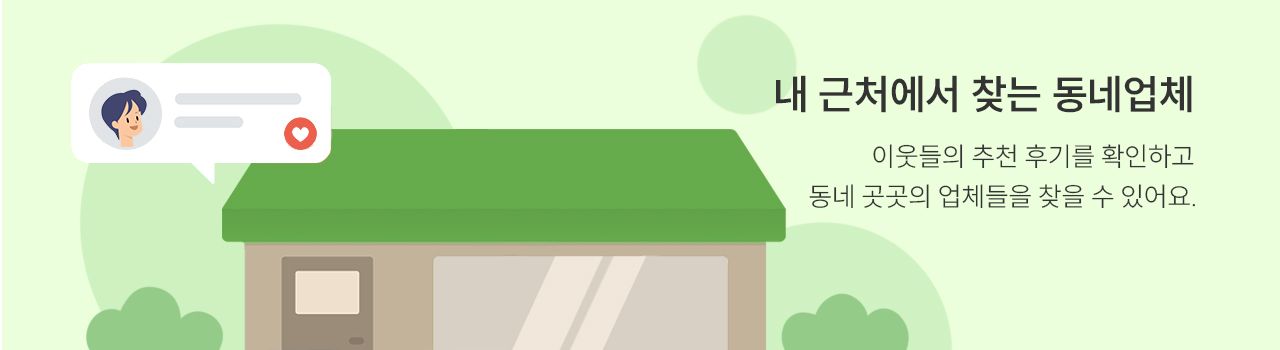
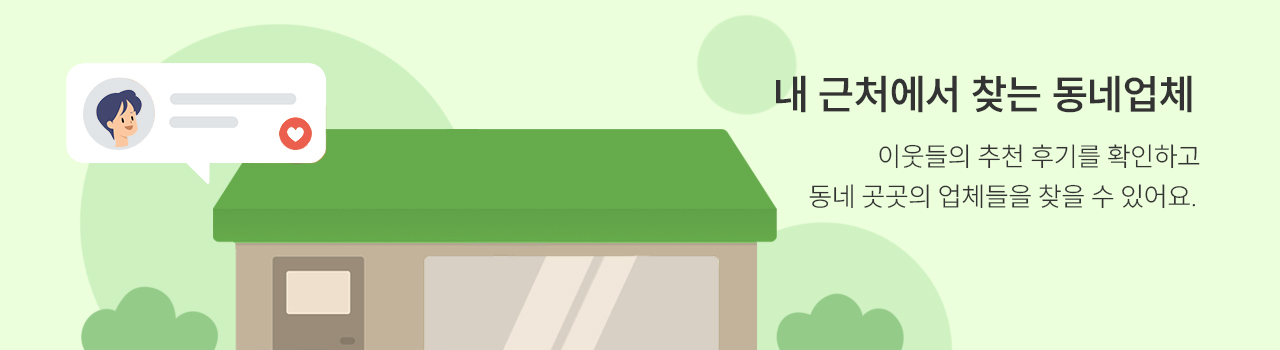
1225서연

diff --git a/finalProject/src/main/webapp/resources/css/index.css b/finalProject/src/main/webapp/resources/css/index.css
@@ -24,10 +24,11 @@
 	margin-top: 100px;
     width: 100%;
     height: 350px;
-    background-color: greenyellow;
+    background-color: #fffcdb;
+    text-align: center;
 }
 .secondBanner img{
-    width: 100%;
+    width: 1280px;
     height: 100%;
 }
 
@@ -281,16 +282,15 @@
 /* 앱스토어 배너 */
 .appStoreLine{
     width: 100%;
-    height: 500px;
-    background-color: green;
+    height: 400px;
+    background-color: #d5efd4;
     font-family: 'suit';
     display: flex;
     justify-content: center;
 }
 .appStoreInner{
-    padding-top: 60px;
-    width: 900px;
-    background-image: url(../image/avocartLogo.png);
+    width: 1280px;
+    background-image: url(../image/앱배너.jpg);
     background-repeat: no-repeat;
     background-position: right;
     background-size: contain;
@@ -303,11 +303,19 @@
     font-size: 20px;
     margin-bottom: 50px;
 }
+.appBtns{
+    margin: 275px 165px;
+}
+.appBtns a{
+    text-decoration: none;
+}
 .appStoreInner button{
     border: none;
     border-radius: 5px;
     padding: 10px 20px;
     margin-right: 10px;
+    background-color: #bee7bd;
+    color: #2b4d31;
 }
 
 
@@ -335,8 +343,20 @@
     margin-top: 5px;
 }
 #sofa{
-    height: 40%;
+    height: 45%;
 }
 #sunglasses{
-    height: 35%;
+    height: 30%;
+}
+#mac{
+    height: 60%;
+}
+#macc{
+    height: 45%;
+}
+#snack{
+    height: 58%;
+}
+.bi-three-dots{
+    font-size: 20px;
 }

diff --git a/finalProject/src/main/webapp/resources/css/faqList.css b/finalProject/src/main/webapp/resources/css/faqList.css
@@ -13,6 +13,7 @@
 }
 .innerContainer{
     width: 700px;
+    margin-bottom: 100px;
 }
 
 /* 젤 위에 라인 */
@@ -103,6 +104,7 @@
     width: 100%;
     display: flex;
     justify-content: center;
+    margin-bottom: 30px;
 }
 .faqBoards{
     margin: 0;
@@ -158,7 +160,6 @@
 
 /* 문의버튼 라인 */
 .csButtons{
-    margin: 30px 0 100px 0;
     width: 100%;
     display: flex;
     justify-content: space-between;

diff --git a/finalProject/src/main/webapp/resources/css/communityBoardList.css b/finalProject/src/main/webapp/resources/css/communityBoardList.css
@@ -12,7 +12,7 @@
 	}
 
 	.cmBanner{
-		background-color: #f9ffd1;
+		background-color: #fff3e5;
 		height: 350px;
 		font-family: 'SUIT-Regular';
 		display: flex;
@@ -20,7 +20,7 @@
 	}
 	.innerDiv{
 		width: 1280px;
-		background-image: url(../image/알바배너.jpg);
+		background-image: url(../image/소식배너.jpg);
 		background-repeat: no-repeat;
 		background-position: center;
 		background-size: contain;

diff --git a/finalProject/src/main/webapp/resources/css/communityBoardRegister.css b/finalProject/src/main/webapp/resources/css/communityBoardRegister.css
@@ -13,9 +13,10 @@
 }
 
 .imgLine{
-	width: 100%;
-	height: 250px;
-	background-color: #dbdf80;
+    width: 100%;
+    height: 350px;
+    background-color: #fff3e5;
+    text-align: center;
 }
 
 .formLine{
